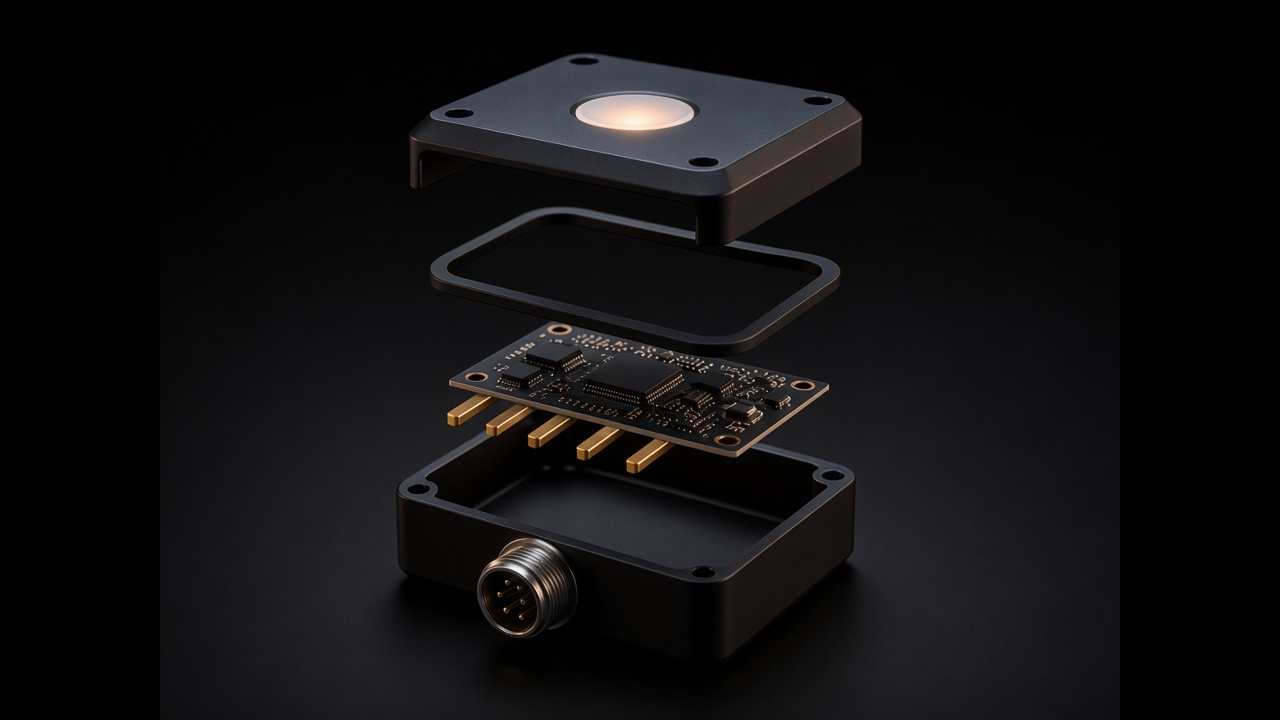
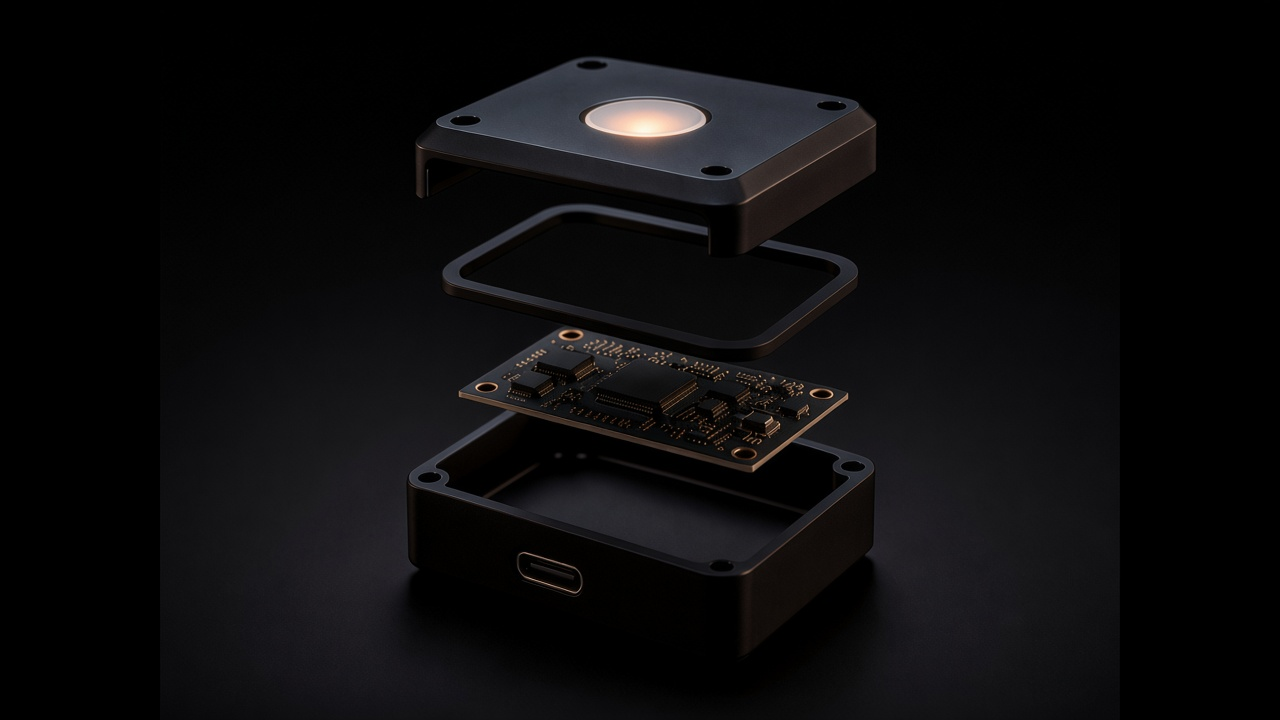
Replace the exploded view with four parts and an empty USB-C port.
The stack has no screws: a lid with a warm window, a gasket, a plain circuit board, and a housing with an empty female USB-C port on the short wall. The page uses exploded.jpg?v=7.

diff --git a/index.html b/index.html
@@ -134,7 +134,7 @@
           </dl>
           <div class="inside">
             <figure>
-              <img src="assets/images/exploded.jpg?v=4" width="1280" height="720" alt="Exploded view of a black instrument in four parts: lid, gasket, a circuit board with four gold pins soldered out of the front edge, and a housing with one round connector on the short wall.">
+              <img src="assets/images/exploded.jpg?v=7" width="1280" height="720" alt="Exploded view of a black instrument: a lid with a warm window, a gasket, a plain circuit board, and a housing with an empty female USB-C port.">
               <figcaption>
                 <p class="kicker">Mechanical stack</p>
                 <p>The housing, the circuit, and the firmware are chosen together.</p>
